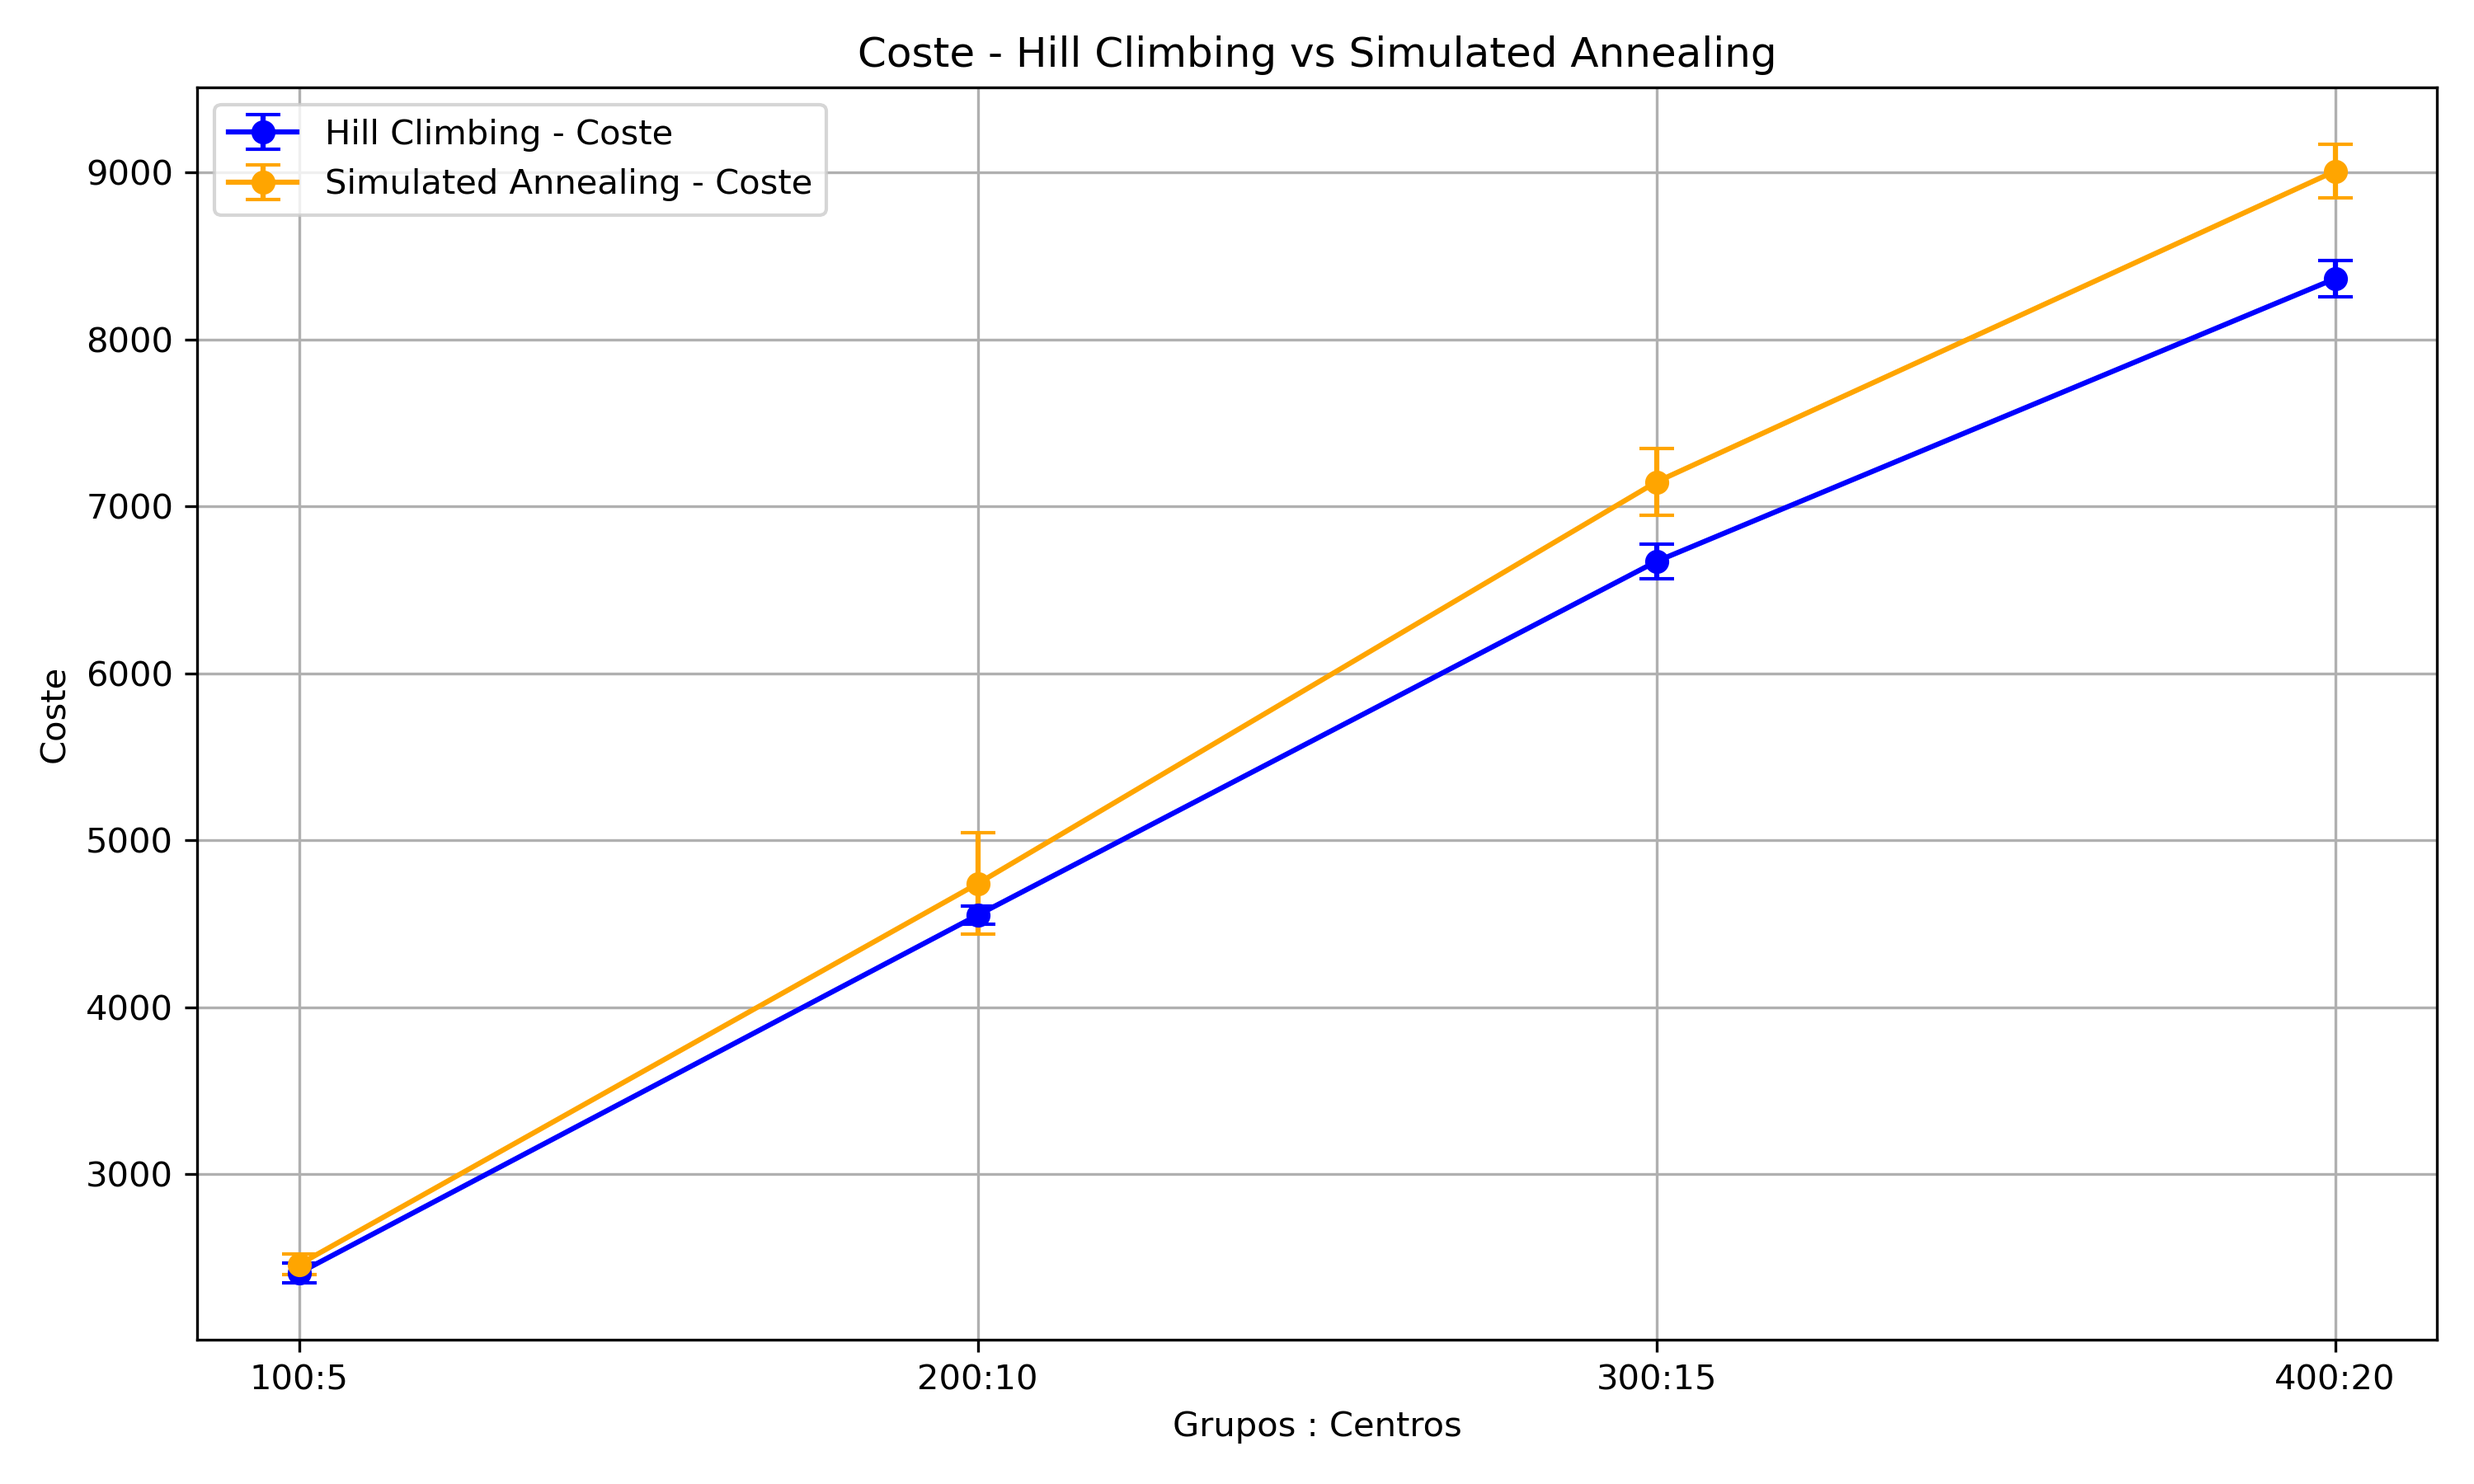
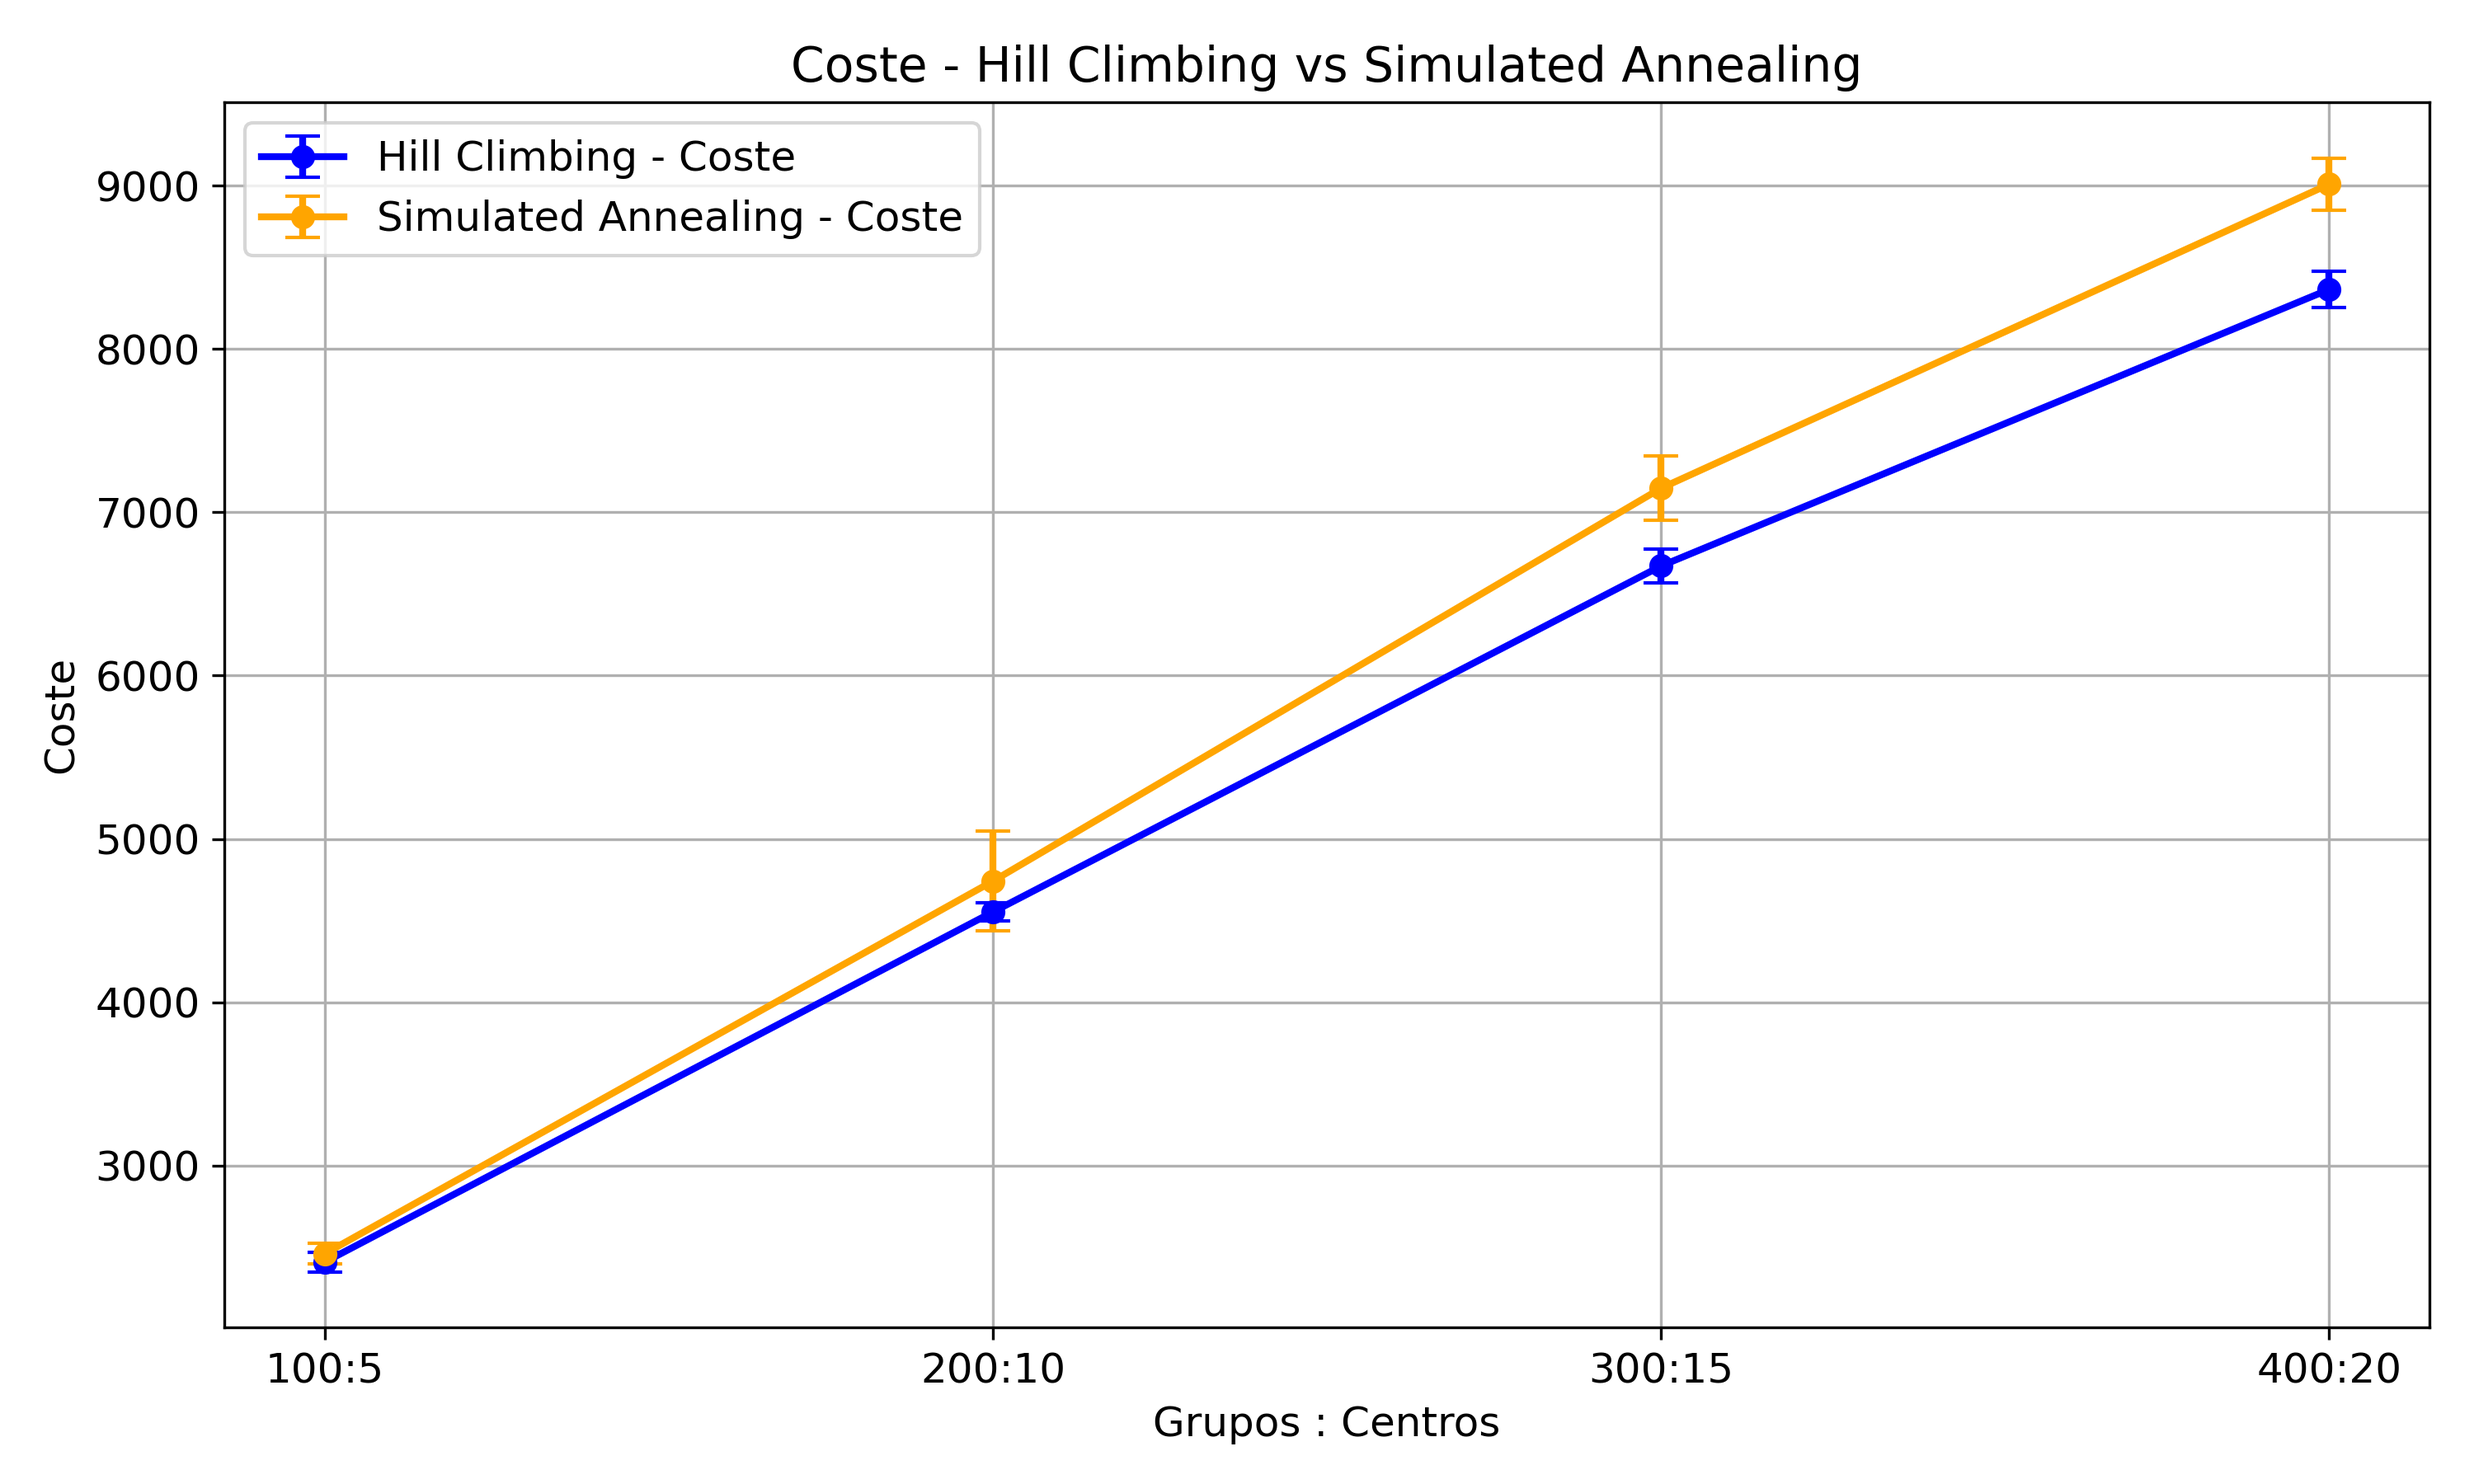
aumentar fuente gráficas matplotlib

diff --git a/resultados/exp4/plot.py b/resultados/exp4/plot.py
@@ -1,6 +1,18 @@
 import pandas as pd
 import matplotlib.pyplot as plt
 
+# Configuración global de matplotlib
+plt.rcParams.update({
+    'font.size': 12,           # tamaño general de texto
+    'axes.titlesize': 14,      # tamaño de los títulos de los ejes
+    'axes.labelsize': 12,      # tamaño de las etiquetas de los ejes
+    'xtick.labelsize': 12,     # tamaño de los ticks X
+    'ytick.labelsize': 12,     # tamaño de los ticks Y
+    'legend.fontsize': 12,      # tamaño de la leyenda
+    'lines.linewidth': 2,     # grosor de las líneas
+    'lines.markersize': 8     # tamaño de los markers
+})
+
 # Cargar los datos desde el archivo CSV
 df = pd.read_csv("runs.csv")
 

diff --git a/resultados/exp6/plot.py b/resultados/exp6/plot.py
@@ -1,6 +1,18 @@
 import pandas as pd
 import matplotlib.pyplot as plt
 
+# Configuración global de matplotlib
+plt.rcParams.update({
+    'font.size': 12,           # tamaño general de texto
+    'axes.titlesize': 14,      # tamaño de los títulos de los ejes
+    'axes.labelsize': 12,      # tamaño de las etiquetas de los ejes
+    'xtick.labelsize': 12,     # tamaño de los ticks X
+    'ytick.labelsize': 12,     # tamaño de los ticks Y
+    'legend.fontsize': 12,      # tamaño de la leyenda
+    'lines.linewidth': 2,     # grosor de las líneas
+    'lines.markersize': 8     # tamaño de los markers
+})
+
 df = pd.read_csv("runs.csv")
 
 # Agrupar por número de helicópteros
